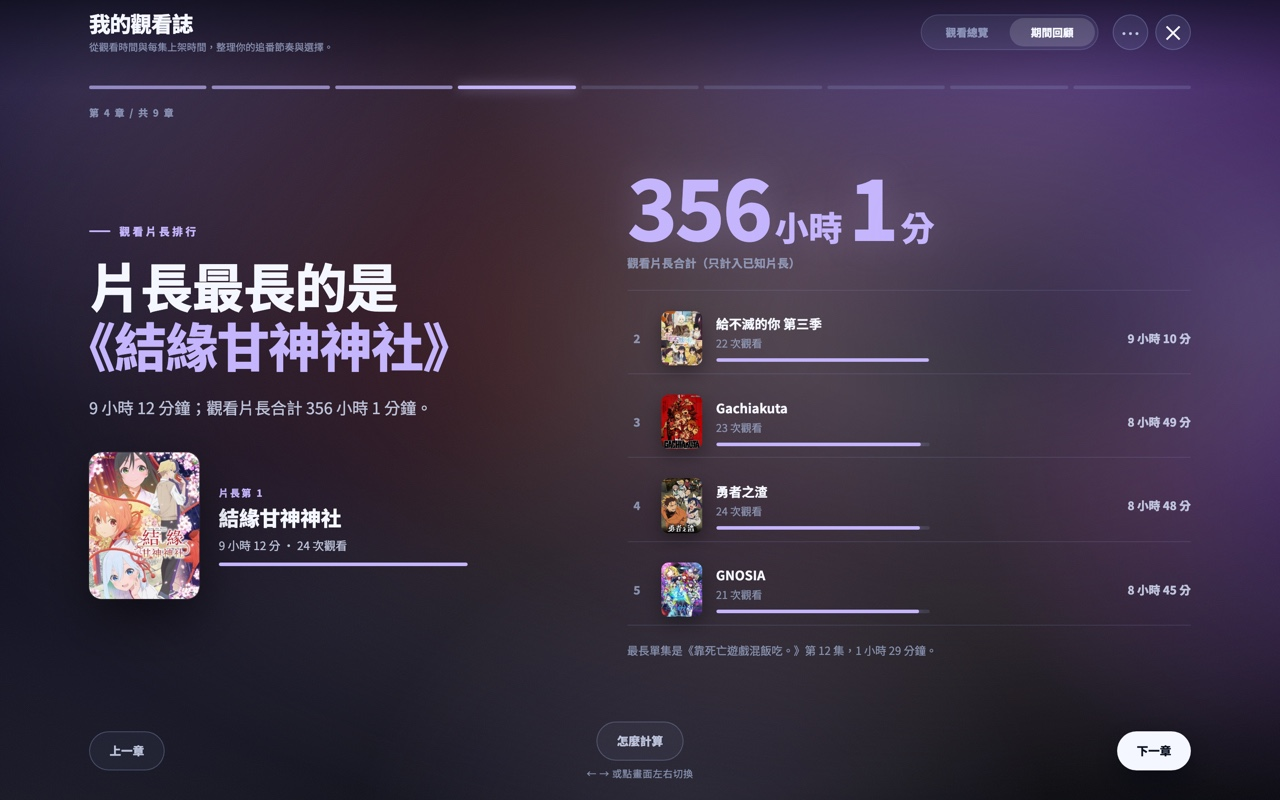
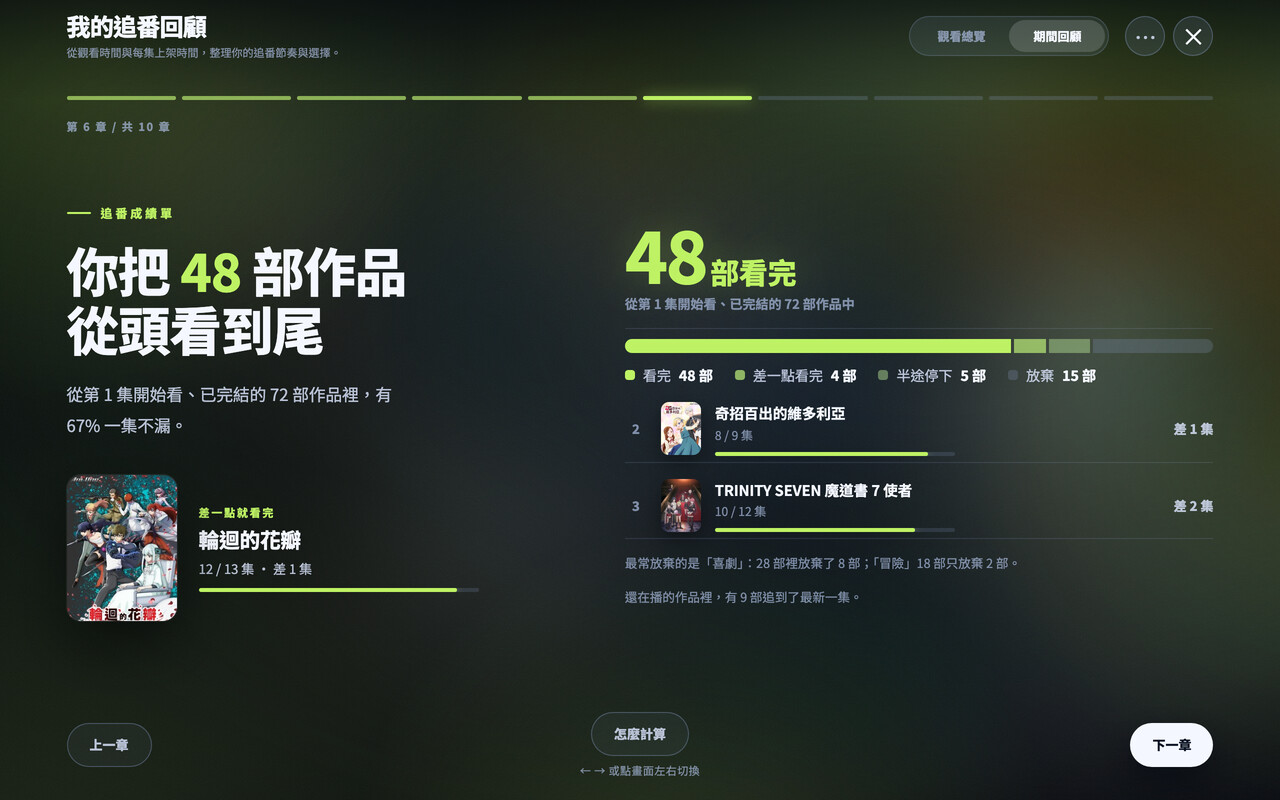
chore: release v0.5.0
- Bump the version to 0.5.0.
- Replace the store screenshots of the recap with the new summary poster
  and the completion report card.
- Update the privacy policy: anime records now keep whether a series is
  still airing, and are requested again after 24 hours.

diff --git a/PRIVACY.md b/PRIVACY.md
@@ -21,11 +21,11 @@ The saved history is refreshed whenever the extension reads the watch history pa
 To avoid repeatedly requesting the same metadata, the extension also stores strictly validated episode and anime records in `chrome.storage.local`:
 
 - Episode records: episode and anime numeric IDs, the exact API playback-group key, episode index and number, official availability start and end, duration, cover URL, video type, and retrieval time.
-- Anime records: anime numeric ID and title, total episode count, declared season start and end, cover URL, tags, maker, director, publisher, episode index references, the platform score/review-count/popularity snapshot, and retrieval time.
+- Anime records: anime numeric ID and title, total episode count, declared season start and end, whether the series is still airing (derived from the season end), cover URL, tags, maker, director, publisher, episode index references, the platform score/review-count/popularity snapshot, and retrieval time.
 - Unavailable records: the numeric episode ID, when the unavailable response was first and last observed, and how many refetches confirmed it again. An unavailable result is reused for one day, four times longer after each confirmation up to seven days, varied by a fixed ±20% per episode so records do not all expire together (at most 8.4 days).
 - Invalid-response records: the numeric episode ID, the observation time, the parser version, and the validation message for a response that identified the requested episode but failed validation. They are reused for at most 24 hours, and never after the extension's parsing rules change. Network errors, HTTP errors (including rate limiting), empty or placeholder responses, and responses for another episode are never cached.
 
-Watch dates and watch times are not written to the metadata cache. Validated episode and anime records remain in the user's browser until the cache is cleared or the extension is uninstalled; changing platform values retain their retrieval timestamp. Cached metadata can be removed with **Clear metadata cache** in the analysis header, by clearing the extension's data, or by uninstalling the extension. The in-extension action removes only metadata cache records and then retrieves needed metadata again; it does not remove watch history, the saved history copy, or the day-boundary preference.
+Watch dates and watch times are not written to the metadata cache. Validated episode and anime records remain in the user's browser until the cache is cleared or the extension is uninstalled; changing platform values retain their retrieval timestamp. An anime record older than 24 hours is requested again the next time it is needed, and the new response replaces it, so episode counts and airing status stay current. Cached metadata can be removed with **Clear metadata cache** in the analysis header, by clearing the extension's data, or by uninstalling the extension. The in-extension action removes only metadata cache records and then retrieves needed metadata again; it does not remove watch history, the saved history copy, or the day-boundary preference.
 
 The analysis header also offers a user-initiated debug download. The generated JSON stays on the user's device and contains the currently loaded watch records, normalized episode and anime metadata, collection progress and parse issues, history loading diagnostics (source, page counts, and timings), metadata error classifications, raw extension metadata-cache entries (including unavailable and invalid-response records), cache policy values, and the metadata rate-limit coordination state. It does not contain cookies, the account ID or its hash, login credentials, account-oriented API fields, or page HTML. The extension does not upload this file; the user decides whether to share it.
 
